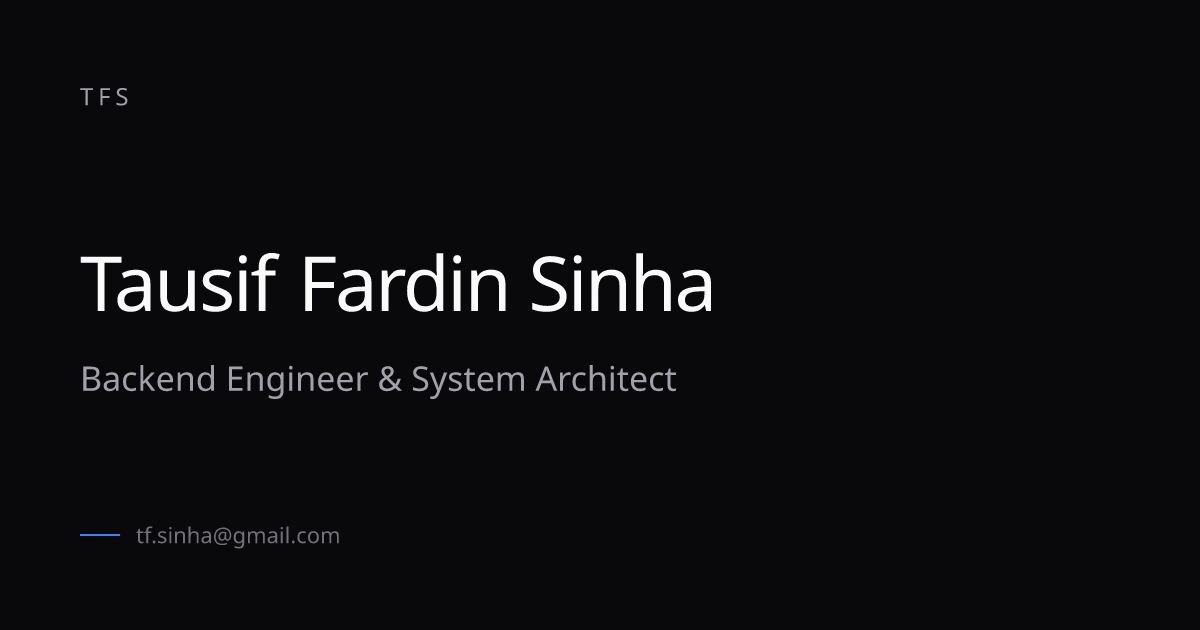
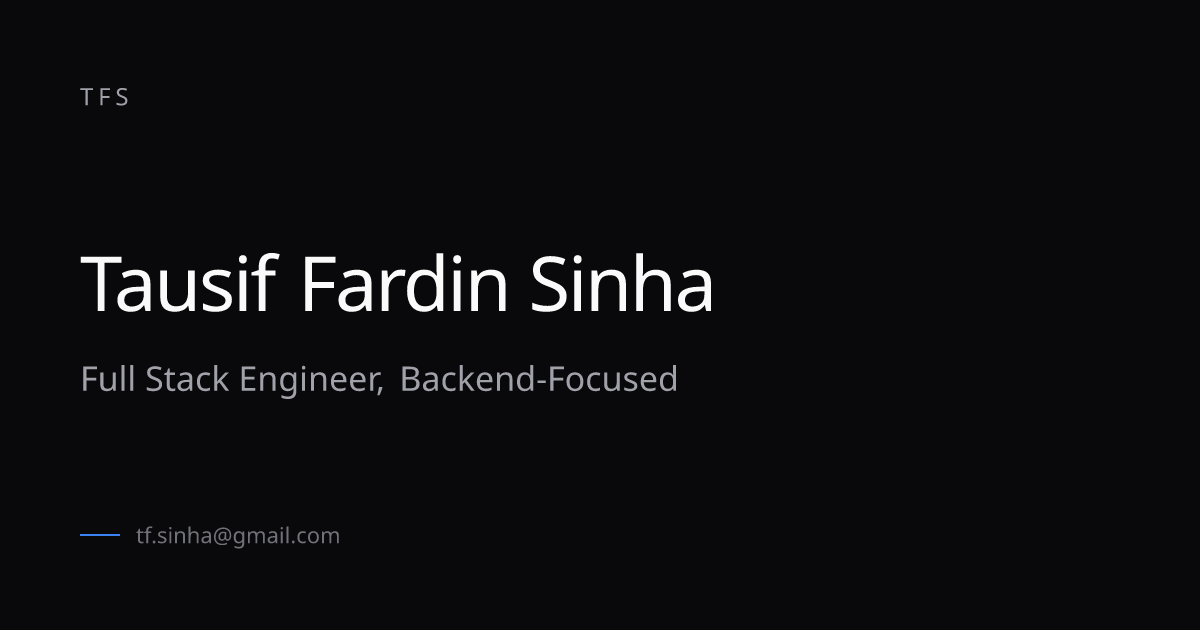
feat: update profile details, enhance project and publication sections, and adjust site URL

Changed region(s): [[0.0617, 0.573, 0.5858, 0.6333]]

diff --git a/src/lib/content.ts b/src/lib/content.ts
@@ -14,13 +14,13 @@ export const profile: Profile = {
     name: "Tausif Fardin Sinha",
     shortName: "Tausif Fardin",
     monogram: "TFS",
-    title: "Backend Engineer & System Architect",
+    title: "Full Stack Engineer, Backend-Focused",
     tagline:
-        "Building high-throughput SaaS platforms, e-commerce ecosystems, and AI-integrated applications.",
+        "Building high-throughput SaaS platforms, e-commerce ecosystems, and AI-integrated applications — from schema to deployment.",
     summary: [
-        "Backend Engineer and System Architect with 3+ years of experience designing high-throughput SaaS platforms, e-commerce ecosystems, and AI-integrated applications.",
-        "Proven track record leading technical teams, architecting scalable relational and NoSQL databases, and managing end-to-end deployments for enterprise brands.",
-        "I specialize in Node.js ecosystems (NestJS, Express), multi-platform API integrations, and applying machine learning workflows to enhance product capabilities.",
+        "Full Stack Engineer with 3+ years of experience designing high-throughput SaaS platforms, e-commerce ecosystems, and AI-integrated applications. I build complete products — schema and API design, the interface on top, and the infrastructure underneath.",
+        "My depth is backend: Node.js ecosystems (NestJS, Express), scalable relational and NoSQL databases, and multi-platform API integrations, with a track record leading technical teams and owning end-to-end deployments for enterprise brands.",
+        "The rest of the stack comes with it — React, Next.js, and Tailwind on the front end; Docker, Nginx, PM2, and CI/CD on the way to production.",
     ],
     email: "tf.sinha@gmail.com",
     location: "Dhaka, Bangladesh",
@@ -140,7 +140,18 @@ export const projects: readonly Project[] = [
 export const skillGroups: readonly SkillGroup[] = [
     {
         category: "Languages & Frameworks",
-        items: ["Node.js", "NestJS", "Express.js", "JavaScript", "Python"],
+        items: [
+            "Node.js",
+            "NestJS",
+            "Express.js",
+            "TypeScript",
+            "JavaScript",
+            "Python",
+        ],
+    },
+    {
+        category: "Frontend",
+        items: ["React", "Next.js", "Tailwind CSS"],
     },
     {
         category: "Databases & ORMs",

diff --git a/src/components/sections/projects.tsx b/src/components/sections/projects.tsx
@@ -24,7 +24,9 @@ export function Projects() {
                                 href={project.href}
                                 target="_blank"
                                 rel="noreferrer noopener"
-                                className="group -mx-3 block rounded-md px-3 py-5 transition-colors hover:bg-surface"
+                                // Square, full-row highlight: matches the divider
+                                // width exactly so corners meet the rules flush.
+                                className="group block py-5 transition-colors hover:bg-surface"
                             >
                                 <div className="flex flex-wrap items-baseline justify-between gap-x-4 gap-y-1">
                                     <h3 className="text-[15px] font-medium tracking-tight">
@@ -35,7 +37,7 @@ export function Projects() {
                                     </p>
                                 </div>
 
-                                <p className="mt-1.5 flex items-center gap-1 font-mono text-xs text-muted">
+                                <p className="mt-1.5 flex items-center gap-1 font-mono text-xs text-muted transition-colors group-hover:text-accent">
                                     {displayDomain(project.href)}
                                     <ArrowUpRight
                                         aria-hidden="true"

diff --git a/src/components/sections/publications.tsx b/src/components/sections/publications.tsx
@@ -23,7 +23,7 @@ function Entry({ publication }: { publication: Publication }) {
             {publication.url ? (
                 <ArrowUpRight
                     aria-hidden="true"
-                    className="mt-0.5 h-4 w-4 shrink-0 text-muted transition-colors group-hover:text-foreground"
+                    className="mt-0.5 h-4 w-4 shrink-0 text-muted transition-colors group-hover:text-accent"
                     strokeWidth={2}
                 />
             ) : null}
@@ -39,7 +39,9 @@ function Entry({ publication }: { publication: Publication }) {
             href={publication.url}
             target="_blank"
             rel="noreferrer noopener"
-            className="group -mx-3 block rounded-md px-3 py-5 transition-colors hover:bg-surface"
+            // Square, full-row highlight: matches the divider width exactly so
+            // corners meet the rules flush.
+            className="group block py-5 transition-colors hover:bg-surface"
         >
             {body}
         </a>

diff --git a/src/app/layout.tsx b/src/app/layout.tsx
@@ -25,7 +25,7 @@ const mono = JetBrains_Mono({
 });
 
 const title = `${profile.name} — ${profile.title}`;
-const description = `${profile.title} with 3+ years of experience. ${profile.tagline}`;
+const description = `${profile.title}. ${profile.tagline}`;
 
 /**
  * Static social card. Regenerate it if the name/title in `profile` changes —
@@ -51,11 +51,14 @@ export const metadata: Metadata = {
     creator: profile.name,
     keywords: [
         "Tausif Fardin Sinha",
+        "Full Stack Engineer",
         "Backend Engineer",
         "System Architect",
         "NestJS",
         "Node.js",
         "TypeScript",
+        "React",
+        "Next.js",
         "PostgreSQL",
         "MongoDB",
         "Redis",

diff --git a/src/lib/site.ts b/src/lib/site.ts
@@ -4,11 +4,11 @@ import type { NavItem } from "./types";
  * Absolute origin of the deployed site. Used for canonical URLs, the sitemap
  * and Open Graph asset resolution.
  *
- * Set NEXT_PUBLIC_SITE_URL in the deployment environment — the fallback below
- * is only a placeholder for local development.
+ * The default is the live production origin; set NEXT_PUBLIC_SITE_URL only to
+ * override it (preview deployments, a future custom domain).
  */
 export const SITE_URL =
-    process.env.NEXT_PUBLIC_SITE_URL ?? "https://tausif-fardin.vercel.app";
+    process.env.NEXT_PUBLIC_SITE_URL ?? "https://tausifsodyssey.vercel.app";
 
 export const NAV_ITEMS: readonly NavItem[] = [
     { id: "about", label: "About" },

diff --git a/README.md b/README.md
@@ -1,6 +1,6 @@
 # Portfolio — Tausif Fardin Sinha
 
-Personal portfolio for a Backend Engineer & System Architect. Minimalist,
+Personal portfolio for a backend-focused Full Stack Engineer. Minimalist,
 typography-driven, and static: a single prerendered route with no client-side
 data fetching.
 
